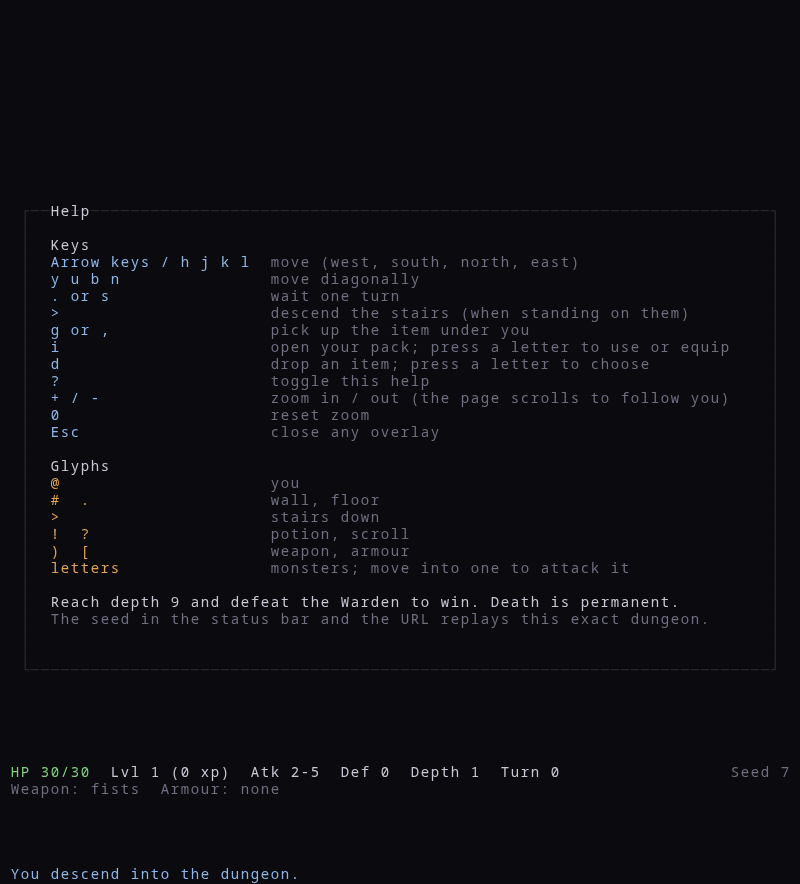
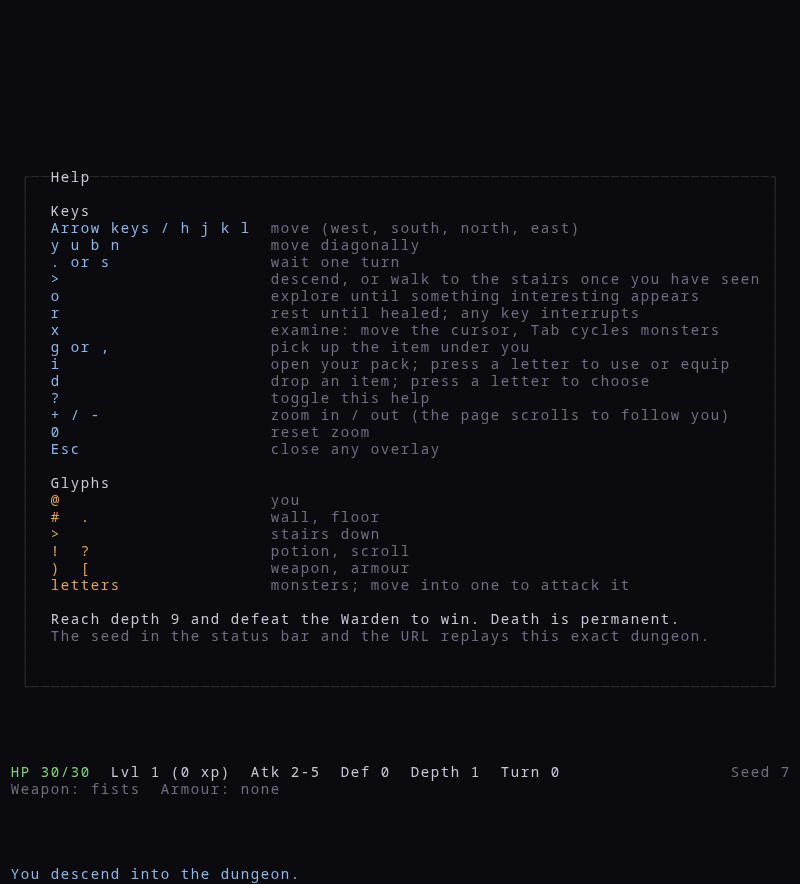
docs: recapture the help screenshot with the new keys
The help overlay now lists explore, rest, examine, and the stairs
shortcut; the screenshot in the README showed the old list. The stairs
line is shorter so it fits the box.

diff --git a/src/ui/help.ts b/src/ui/help.ts
@@ -11,7 +11,7 @@ const KEY_MAP: readonly (readonly [string, string])[] = [
   ["Arrow keys / h j k l", "move (west, south, north, east)"],
   ["y u b n", "move diagonally"],
   [". or s", "wait one turn"],
-  [">", "descend the stairs, or walk to them if you have seen them"],
+  [">", "descend, or walk to the stairs once you have seen them"],
   ["o", "explore until something interesting appears"],
   ["r", "rest until healed; any key interrupts"],
   ["x", "examine: move the cursor, Tab cycles monsters"],
